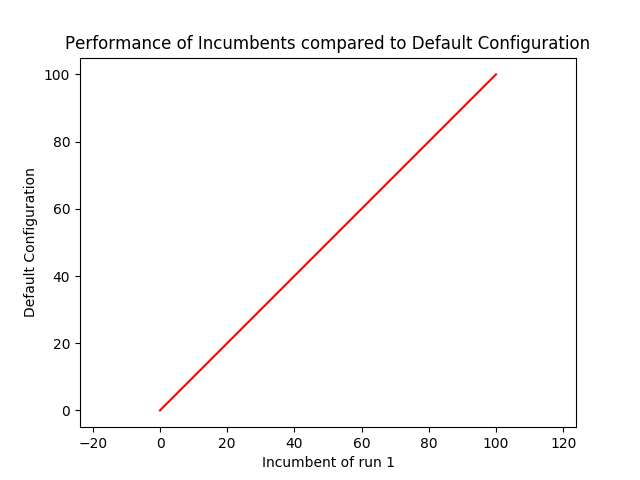
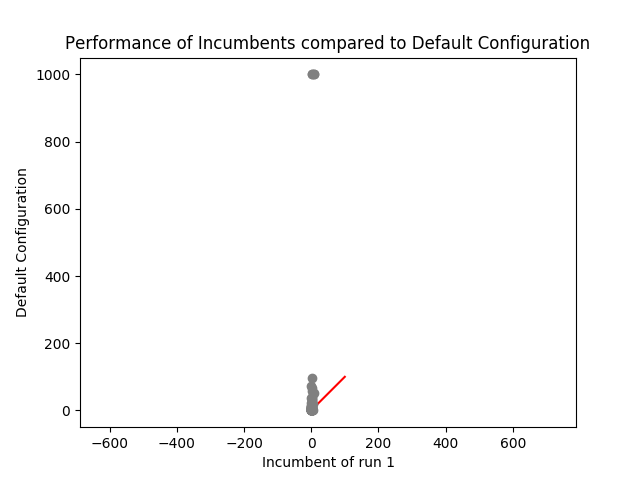
Added plot

diff --git a/Exercise2/lpg_depots/validate/plot_validation_1.py b/Exercise2/lpg_depots/validate/plot_validation_1.py
@@ -28,8 +28,8 @@ def main():
             cost_default.append(z_)
         else:
             cost_incumbent.append(z_)
-    #plt.plot(cost_incumbent,cost_default,'ro', color="gray")
     plt.plot([0,100],[0,100],'k',color="red")
+    plt.plot(cost_incumbent,cost_default,'ro', color="gray")
     plt.ylabel("Default Configuration")
     plt.xlabel("Incumbent of run 1")
     plt.title("Performance of Incumbents compared to Default Configuration")
